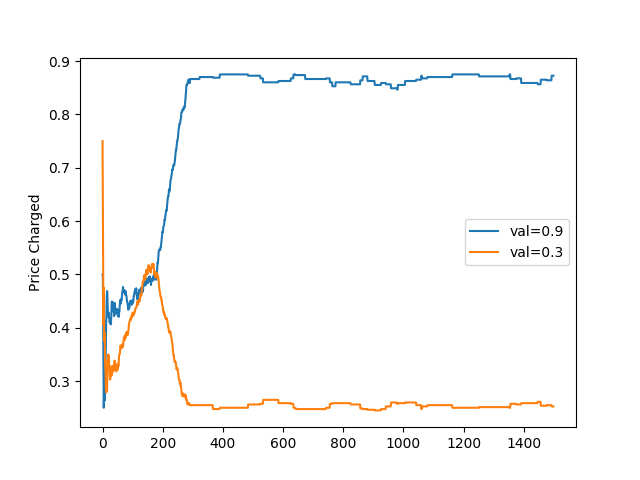
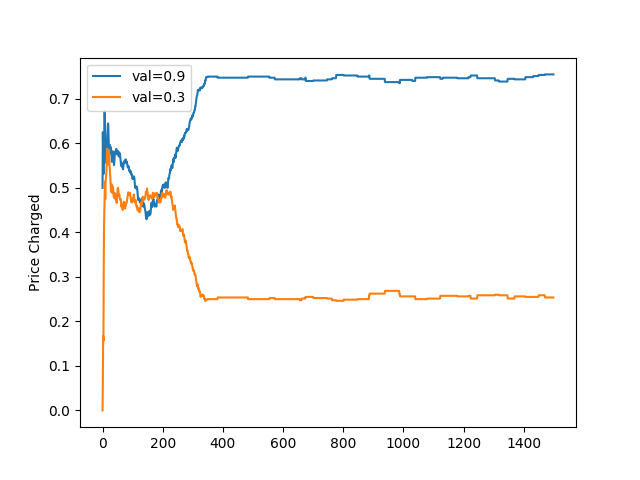
part 2 done

diff --git a/Project4/part2.py b/Project4/part2.py
@@ -31,7 +31,7 @@ class SellingIntroductions:
     ## Generate Once
     prices = list(np.linspace(0, 1, self.k))
     actions = list(set(permutations(prices + prices, len(bidders))))
-    alg = self.alg(self.n, len(actions), e=0.3)
+    alg = self.alg(self.n, len(actions), e=0.5)
     payoffs = np.empty((self.n, len(actions)))
     revenues = np.empty((self.n, 1))
     prices = [None] * self.n
@@ -59,8 +59,9 @@ def avg(lst):
   return [sum(lst[max(0, n-factor):n + 1]) / len(lst[max(0, n-factor):n + 1]) for n in range(n)]
 
 if __name__ == "__main__":
-  n, k = 1500, 9
-
+  n, k = 3000, 9
+  
+  '''
   # 0.9, 0.3
   introductions = SellingIntroductions(n, k, EW_Player)
   rev, price = introductions.play([Bidder(0.9), Bidder(0.3)])
@@ -115,10 +116,11 @@ if __name__ == "__main__":
   plt.legend(["val=0.2", "val=0.2"])
   plt.ylabel("Price Charged")
   plt.savefig("./figures/part2_low_low.png")
+  '''
 
   ## Multiple
   introductions = SellingIntroductions(n, k, EW_Player)
-  rev, price = introductions.play([Bidder(0.9), Bidder(0.3), Bidder(0.3)])
+  rev, price = introductions.play([Bidder(0.9), Bidder(0.2), Bidder(0.2)])
 
   plt.clf()
   plt.plot(range(n), avg(list(map(lambda x: x[0], price))))
